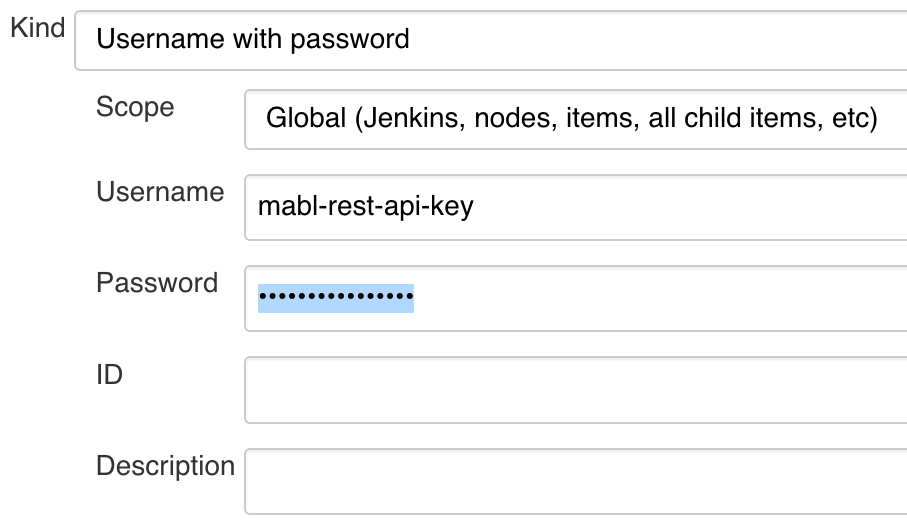
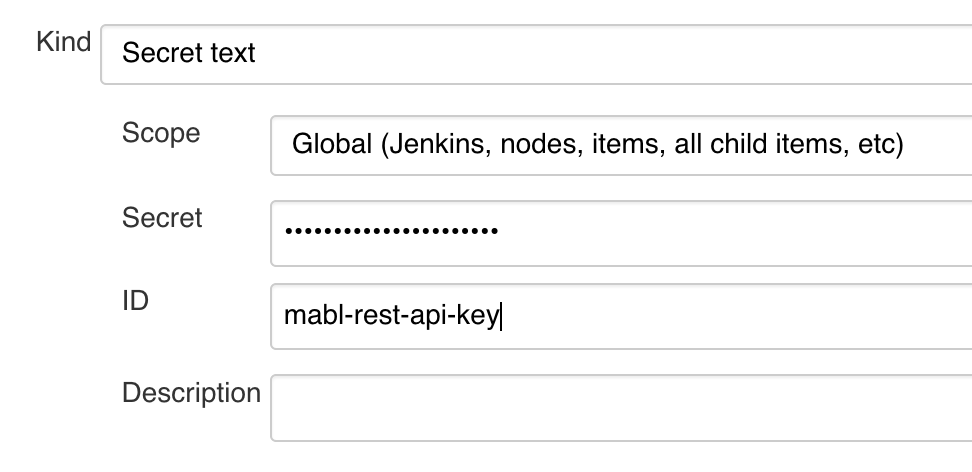
Switched to using secret text credential kind Update readme with upgrade instructions, Jenkins and Java requirements Updated help text to use credential instead of name

diff --git a/src/main/resources/com/mabl/integration/jenkins/MablStepBuilder/help-restApiKeyName.html b/src/main/resources/com/mabl/integration/jenkins/MablStepBuilder/help-restApiKeyName.html
@@ -1,5 +1,5 @@
 <div>
-    mabl API key name for your workspace. The key is kept safely in Jenkins credentials as a Username with
-    password item. Set the password to be the REST API key for your workspace.
+    mabl API key credential for your workspace. The key is kept safely in Jenkins credentials using Secret text kind.
+    Make sure that you set the ID of the credential as IDs are used to select the credential from the drop-down list.
     <a target="_blank" href="https://help.mabl.com/v1.0/docs/triggering-tests-via-the-api">More info</a>.
 </div>

diff --git a/src/main/java/com/mabl/integration/jenkins/MablStepBuilder.java b/src/main/java/com/mabl/integration/jenkins/MablStepBuilder.java
@@ -2,7 +2,7 @@ package com.mabl.integration.jenkins;
 
 import com.cloudbees.plugins.credentials.CredentialsProvider;
 import com.cloudbees.plugins.credentials.common.StandardListBoxModel;
-import com.cloudbees.plugins.credentials.common.UsernamePasswordCredentials;
+import org.jenkinsci.plugins.plaincredentials.StringCredentials;
 import com.cloudbees.plugins.credentials.domains.DomainRequirement;
 import com.mabl.integration.jenkins.domain.GetApiKeyResult;
 import com.mabl.integration.jenkins.domain.GetApplicationsResult;
@@ -230,11 +230,11 @@ public class MablStepBuilder extends Builder implements SimpleBuildStep {
 
     static Secret getRestApiSecret(final String restApiKey) {
         Secret secretKey = null;
-        List<UsernamePasswordCredentials> passwordCreds =
-                CredentialsProvider.lookupCredentials(UsernamePasswordCredentials.class, (Item)null, ACL.SYSTEM, Collections.<DomainRequirement>emptyList());
-        for (UsernamePasswordCredentials cred : passwordCreds) {
-            if (restApiKey.equals(cred.getUsername())) {
-                secretKey = cred.getPassword();
+        List<StringCredentials> stringCredentials =
+                CredentialsProvider.lookupCredentials(StringCredentials.class, (Item)null, ACL.SYSTEM, Collections.<DomainRequirement>emptyList());
+        for (StringCredentials cred : stringCredentials) {
+            if (restApiKey.equals(cred.getId())) {
+                secretKey = cred.getSecret();
                 break;
             }
         }
@@ -291,13 +291,13 @@ public class MablStepBuilder extends Builder implements SimpleBuildStep {
             if (credentialsId != null) {
                 result.add(credentialsId);
             }
-            List<UsernamePasswordCredentials> passwordCreds =
-                    lookupCredentials(UsernamePasswordCredentials.class, item, ACL.SYSTEM,
+            List<StringCredentials> passwordCreds =
+                    lookupCredentials(StringCredentials.class, item, ACL.SYSTEM,
                             Collections.<DomainRequirement>emptyList());
-            for (UsernamePasswordCredentials cred : passwordCreds) {
-                result.add(cred.getUsername());
+            for (StringCredentials cred : passwordCreds) {
+                result.add(cred.getId());
             }
-            return result.withEmptySelection();
+            return result.includeEmptyValue();
         }
 
         public FormValidation doCheckRestApiKeyNames(

diff --git a/README.md b/README.md
@@ -10,6 +10,7 @@ This plugin allows easy launching of [mabl](https://www.mabl.com) tests as a ste
   * [Adding a mabl project step](#adding-a-mabl-project-step)
   * [Adding a mabl pipeline step](#adding-a-mabl-pipeline-step)
   * [Environment variable collection](#environment-variable-collection)
+  * [Upgrading from previous versions](#upgrade)
   * [Change log](#change-log)
   * [Building from source](#building-from-source)
   * [Local development](#local-development)
@@ -18,7 +19,7 @@ This plugin allows easy launching of [mabl](https://www.mabl.com) tests as a ste
   * [Deployment](#deployment)
 
 ## Plugin Installation
-Install the [plugin](https://plugins.jenkins.io/mabl-integration) into your Jenkins `v1.625+` server from the *Available Plugins* tab by searching for "mabl".
+Install the [plugin](https://plugins.jenkins.io/mabl-integration) into your Jenkins `v2.121+` server from the *Available Plugins* tab by searching for "mabl".
 
 ### Features
 
@@ -28,8 +29,8 @@ Install the [plugin](https://plugins.jenkins.io/mabl-integration) into your Jenk
 
 ### Requirements
 
--   Minimum Jenkins version: *1.625.1*
--   Minimum Java runtime version: *7*
+-   Minimum Jenkins version: *2.121.3*
+-   Minimum Java runtime version: *8*
 -   mabl API key
     -   See [integration
         docs](https://help.mabl.com/v1.0/docs/integrating-mabl-with-your-cicd-workflow#section-the-mabl-deployment-events-api)
@@ -37,10 +38,10 @@ Install the [plugin](https://plugins.jenkins.io/mabl-integration) into your Jenk
 
 ### Create a Jenkins credential for the mabl API key
 
--   Add a new credential accessible to the Jenkins job using the Username with password
+-   Add a new credential accessible to the Jenkins job using the Secret text
     credential kind
--   Set the username to a value such as *mabl-rest-api-key* (any value is acceptable)
--   Set the password to be the API key
+-   Set the secret to to the mabl API key
+-   Set the ID of the credential to a value of your choosing
 
 ![](img/config-api-key.png)
           
@@ -91,7 +92,8 @@ pipeline step for mabl. This can be written by hand or created via the
 
 *Note* that if you want to select specific plan labels, then use the 
 `labels: ['label1','label2',...,'labeln'].toSet()` syntax in your pipeline step. The Generate Pipeline
-Script page in Jenkins does not append `toSet()`.
+Script page in Jenkins does not append `toSet()`. If you do not use labels, then set the value to null,
+for example: `labels: null`
 
 **Pipeline Step Setup**
 
@@ -145,7 +147,23 @@ Send build environment variables is set. Collecting the following information:
   'RUN_DISPLAY_URL' => 'http://127.0.0.1:9090/job/mabl%20integration/47/display/redirect'
 ```
 
+### Upgrading from previous versions
+
+#### Upgrading from pre-0.0.20 versions
+
+Note that
+* Jenkins versions 1.x are no longer supported
+* Minimum required Java version is Java 8
+* Jobs with mabl steps will have to be _manually_ updated
+  1. Create a Secret text kind credential to store the mabl API key
+  1. Make sure that you set the ID of the credentials
+  1. Update the mabl step in each affected job 
+
 ### Change Log
+
+#### v0.0.21 (2 June 2020)
+-   Raised minimum version to 2.121.3
+-   Switched to use Secret text credential kind for storing REST API key
 
 #### v0.0.20 (29 May 2020)
 -   Moved API key to credentials plugin. Existing users must update their configuration manually.
